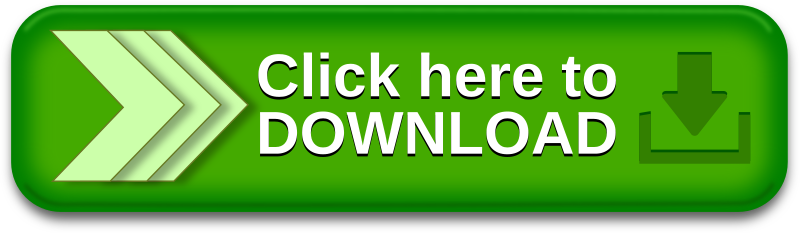
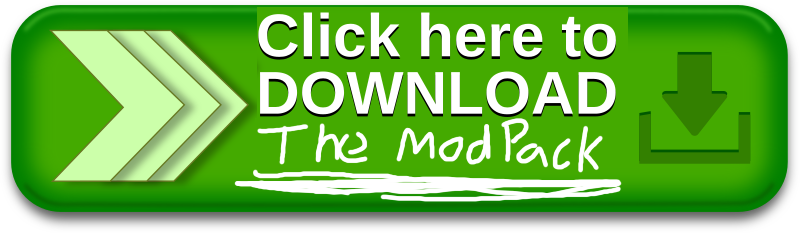
Social Circle Page Better YAY
DL button is funnier now, also embedded the server map (ig thats cool no biggie that it took no effort and im super fucking smart)

Changed region(s): [[0.2812, 0.03, 0.8125, 0.8712]]

diff --git a/SocialCircle.html b/SocialCircle.html
@@ -41,10 +41,16 @@
 				</div>
             <div><p> <span id="player-count">X</span> Players Online</p></div>
         </div></div></div>
-<p style="{color:var(--text-color)"; <hr>Want to Invite a member or Join? Fill out the <a href="https://forms.gle/Ey9Ykeq818BiQ4Qm7">Google Form!<hr></p></a>
+<p style="{color:var(--text-color)";>Want to Invite a member or Join? Fill out the <a href="https://forms.gle/Ey9Ykeq818BiQ4Qm7">Google Form!</p></a>
+
+<br><br><h1>3D LIVE MAP</h1><h2>Powered by (BlueMap)</h2>
+<p><iframe src="http://37.10.104.143:8868/" title="Social Circle Live Map" width=1080px height=720px>
+		  Your browser does not support iframes.</p>
+</iframe>
+<p>There is currently an issue where the 3D Live Map is displaying the incorrect World.<br>This will be fixed in due time, apologies for the inconvenience.</p>
 	<div class="DownloadSC">
-		<p>
-                <img src="Img/SocialCircle/ScammyDLNow.gif" alt="Scammy Download Now Banner" width="750"/><br><a href="DLs/SocialCircle/SocialCircle-1.3.0.mrpack" download="SocialCircle-1.3.0"><img src="Img/SocialCircle/ScammyDL.png" alt="Modpack Download Button" width="900"/></a>
+            <hr>
+               <p> <img src="Img/SocialCircle/ScammyDLNow.gif" alt="Scammy Download Now Banner" width="750"/><br><a href="DLs/SocialCircle/SocialCircle-1.3.0.mrpack" download="SocialCircle-1.3.0"><img src="Img/SocialCircle/ScammyDL.png" alt="Modpack Download Button" width="900"/></a>
             </a>
         </p>
 	</div>
